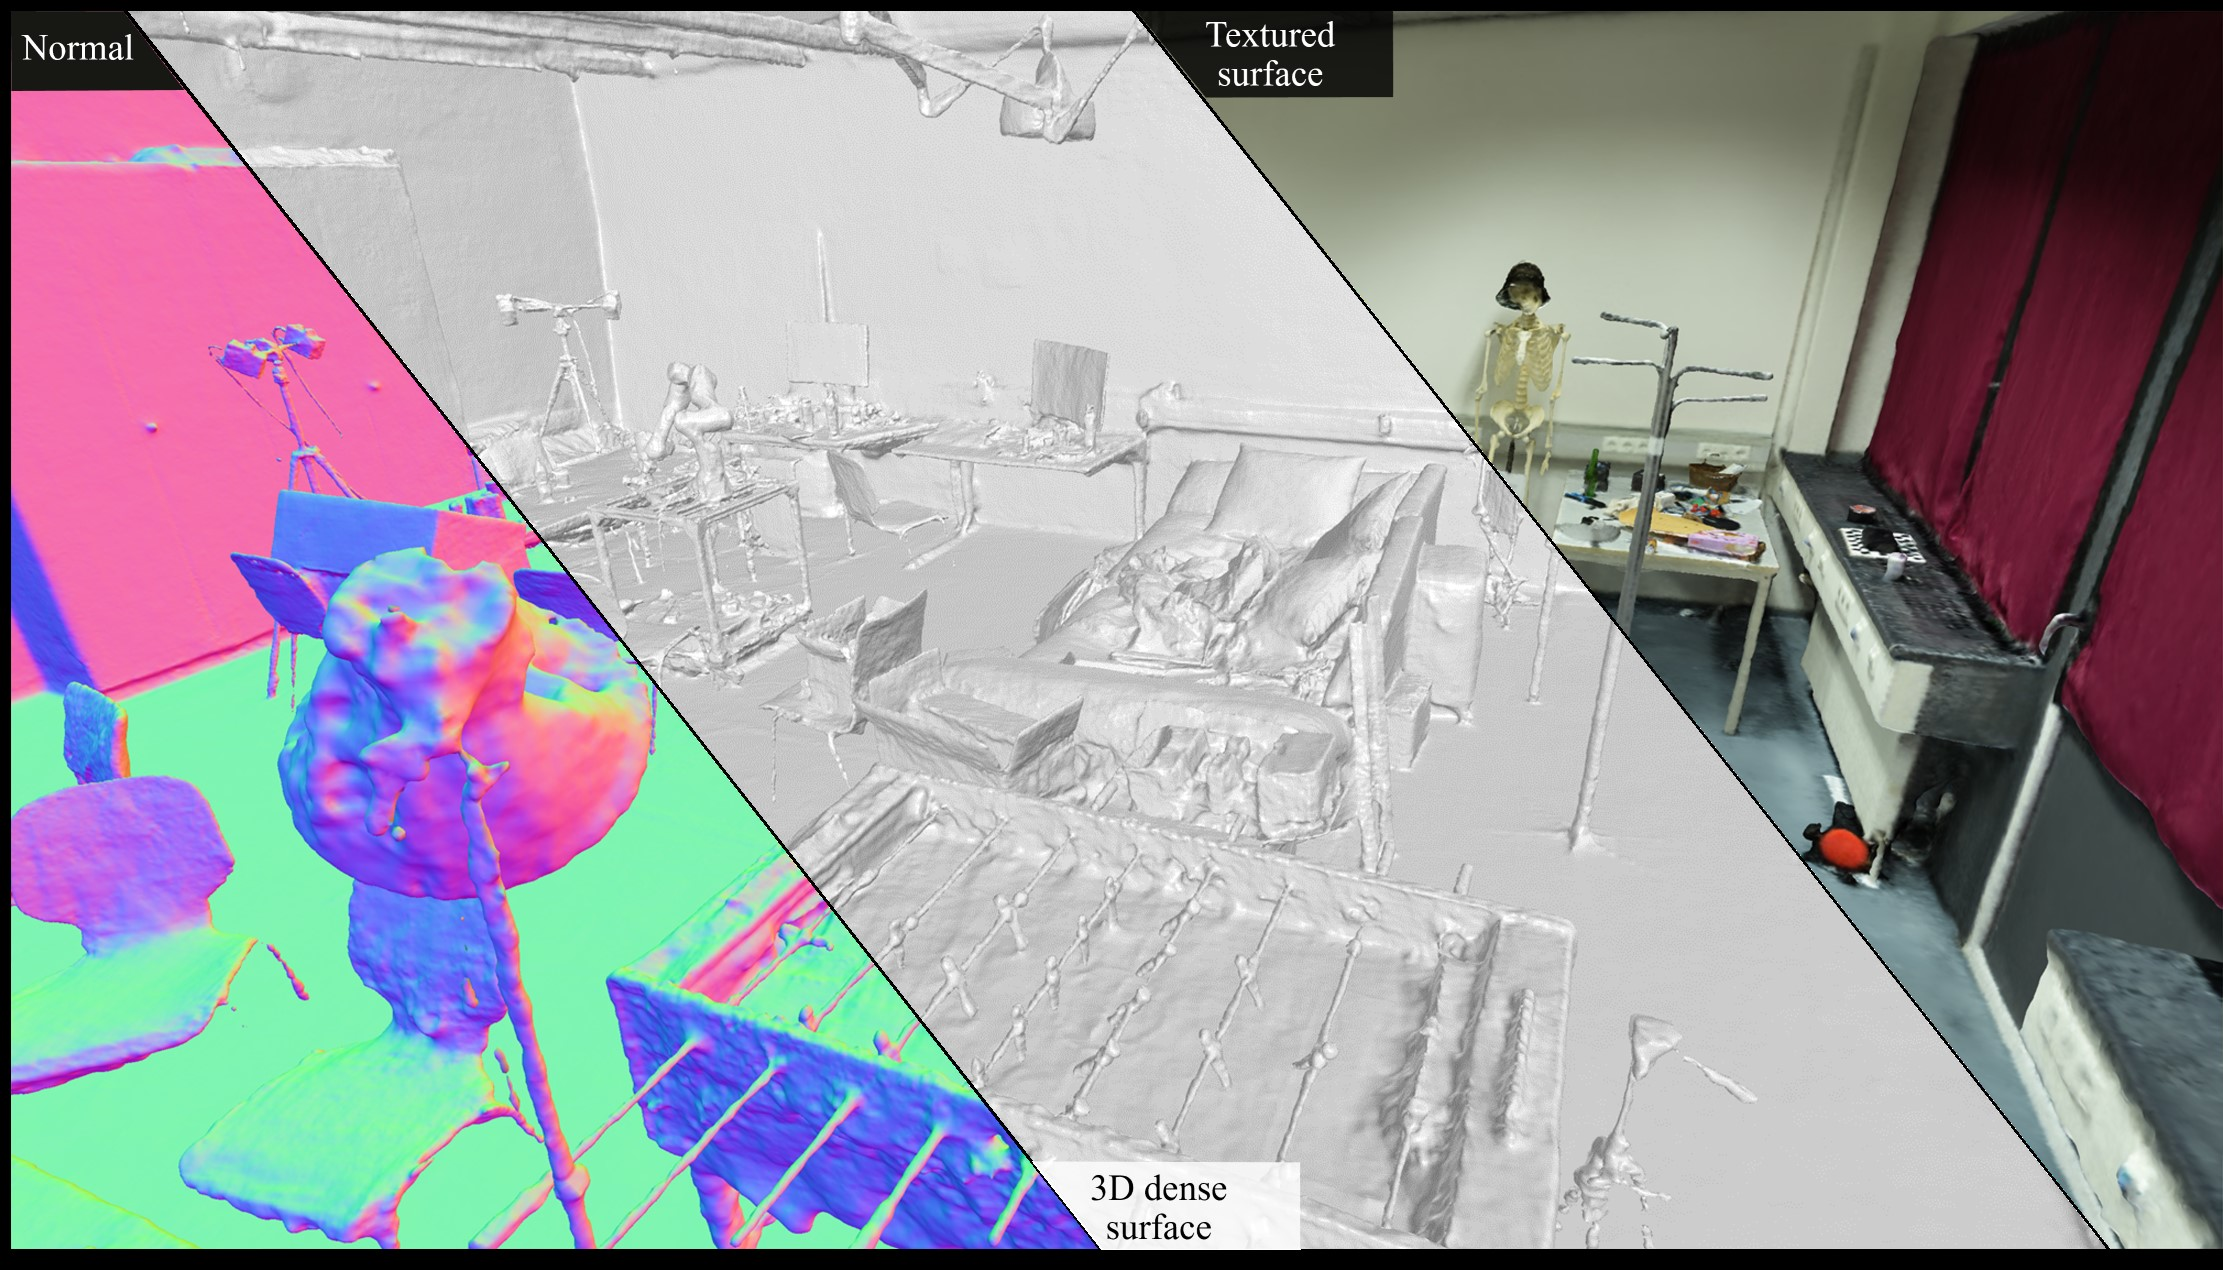
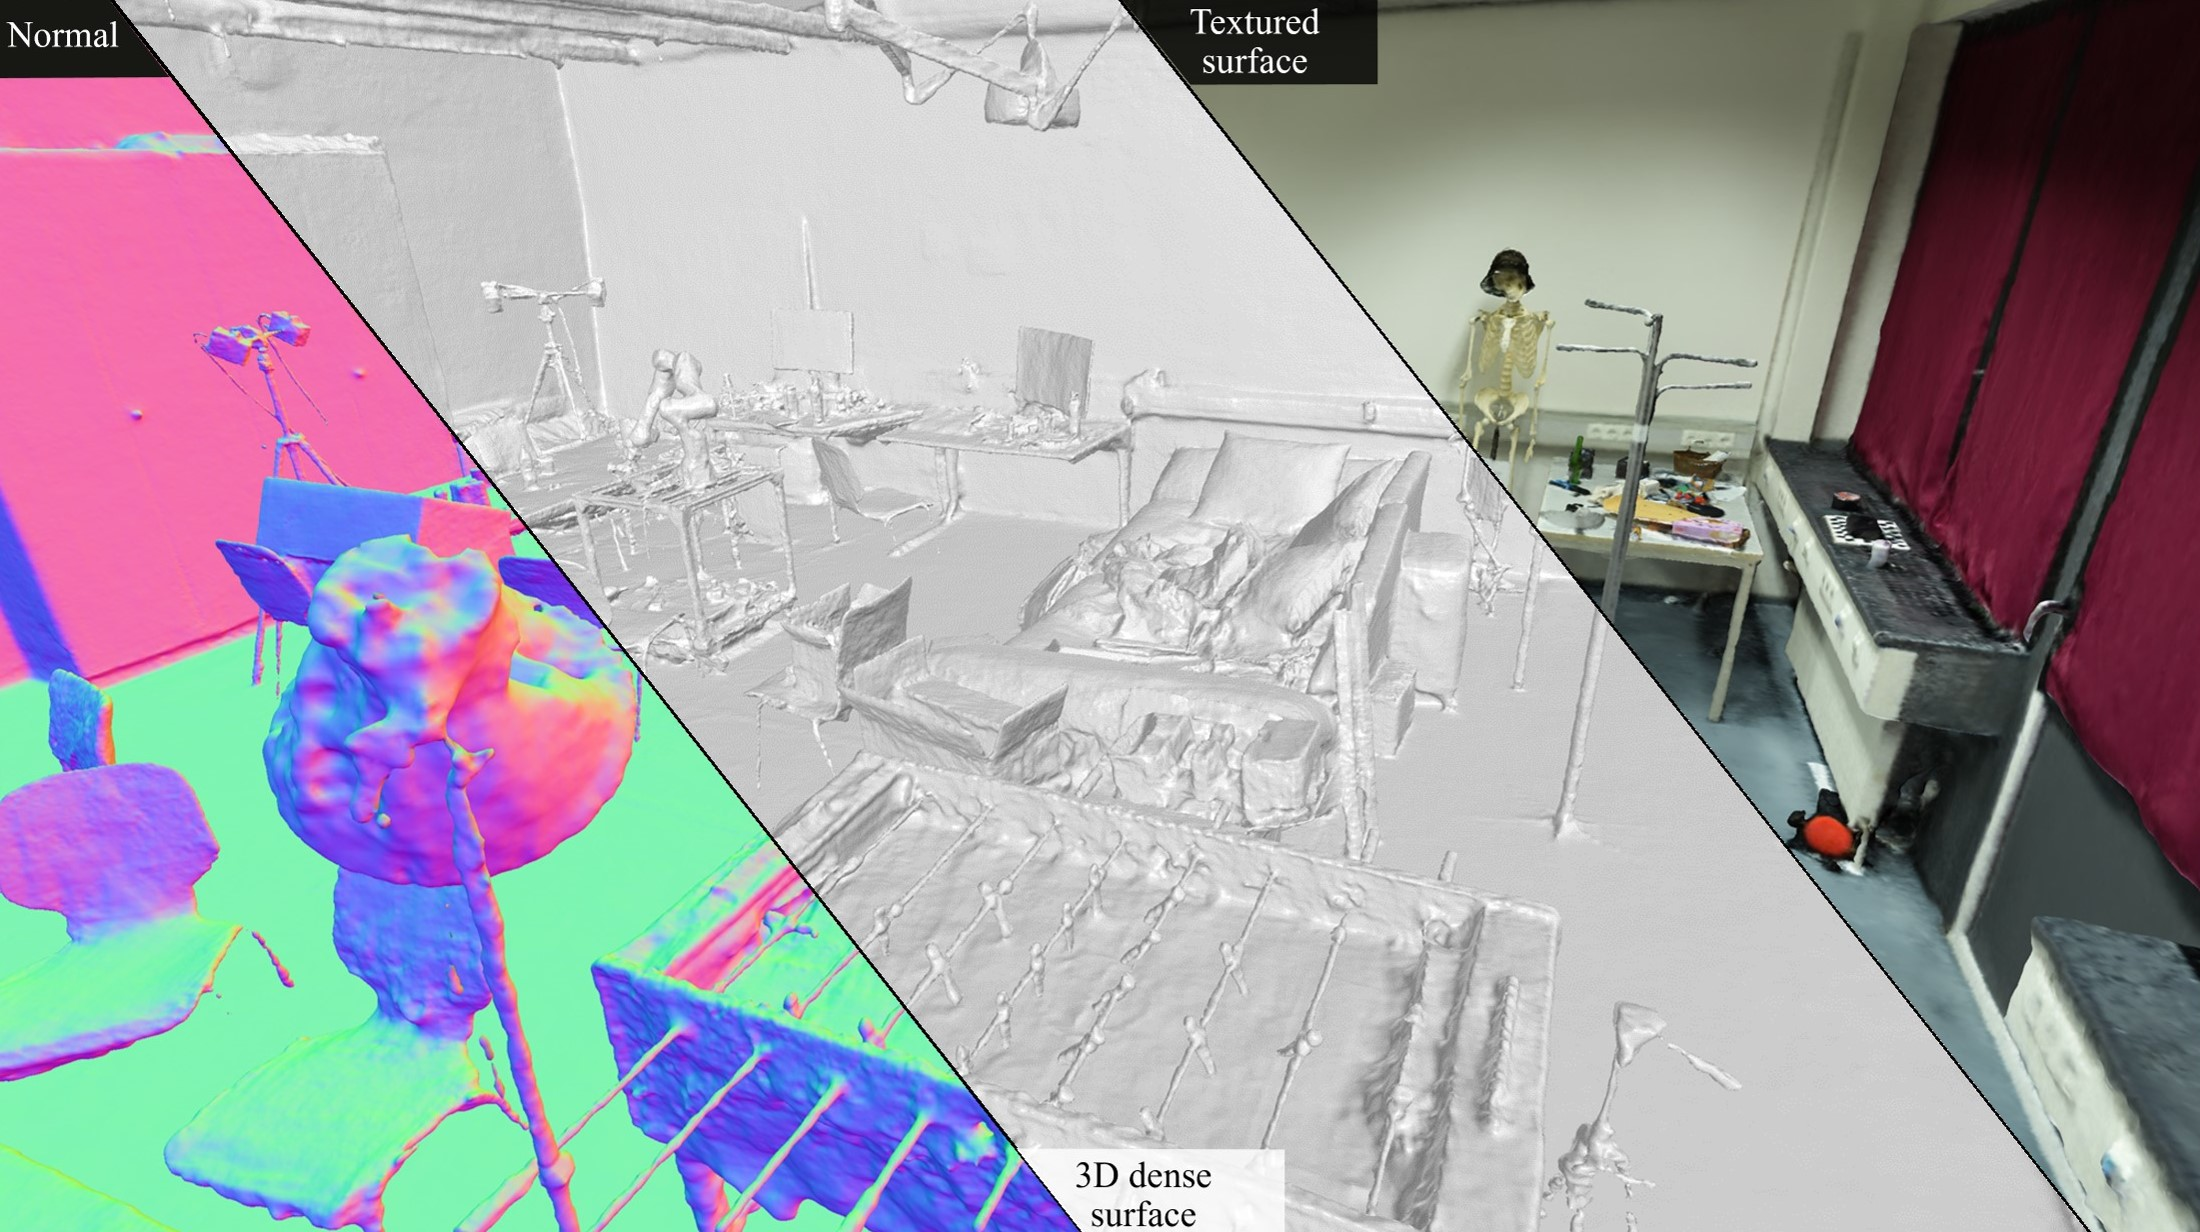
Update details

diff --git a/data/publications.js b/data/publications.js
@@ -75,7 +75,7 @@ const publications = [
     venue: 'ICCV 2025',
     achievements: 'Best Paper on workshop (RIWM)',
     authors: 'Aether Team (Core Contributor)',
-    tags: ['key'],
+    tags: ['first', 'key'],
     image: 'data/paper/aether.jpg',
     links: {"paper": "https://arxiv.org/abs/2503.18945",
       "page": "https://aether-world.github.io/",
@@ -95,6 +95,18 @@ const publications = [
       "page": "https://zju3dv.github.io/nd-sdf/",
       "github": "https://github.com/zju3dv/ND-SDF",
       "scholar": "https://scholar.google.com/citations?view_op=view_citation&hl=en&user=Ll046DsAAAAJ&citation_for_view=Ll046DsAAAAJ:hC7cP41nSMkC",
+    },
+  },
+  {
+    id: 'streetsurfgs',
+    title: 'Streetsurfgs: Scalable urban street surface reconstruction with planar-based gaussian splatting',
+    venue: 'TCSVT 2024',
+    achievements: '',
+    authors: 'Xiao Cui, Weicai Ye, Yifan Wang, Guofeng Zhang, Wengang Zhou, Tong He, Houqiang Li',
+    tags: ['all'],
+    image: 'data/paper/streetsurfgs.png',
+    links: {"paper": "https://arxiv.org/abs/2410.04354?",
+      "scholar": "https://scholar.google.com/citations?view_op=view_citation&hl=en&user=Ll046DsAAAAJ&citation_for_view=Ll046DsAAAAJ:hFOr9nPyWt4C",
     },
   },
   {
